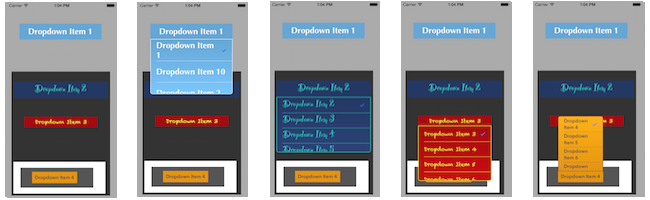
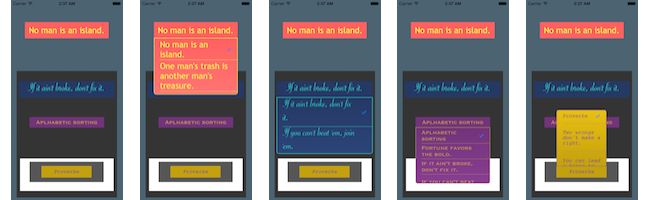
iOS version check for assigning direction incase of landscape.
Since UIScreen bounds is orientation dependent from iOS8.

Updated screenshots.

diff --git a/DropdownSample/VSDropdown.m b/DropdownSample/VSDropdown.m
@@ -104,12 +104,13 @@ static const NSTimeInterval kDefaultDuration = 0.25;
 
 -(CGFloat)cornerRadius
 {
+
     if (self.delegate && [self.delegate respondsToSelector:@selector(cornerRadiusForDropdown:)])
     {
         return [self.delegate cornerRadiusForDropdown:self];
     }
 
-    return 5.0;
+    return 0.0;
     
 }
 
@@ -120,7 +121,7 @@ static const NSTimeInterval kDefaultDuration = 0.25;
         return [self.delegate outlineWidthForDropdown:self];
     }
     
-    return 0;
+    return 0.0;
 
 }
 
@@ -622,7 +623,20 @@ static const NSTimeInterval kDefaultDuration = 0.25;
         CGRect referenceFrame = [self.superview convertRect:viewFrame fromView:[self.dropDownView superview]];
         
         CGFloat totalHeight = referenceFrame.origin.y+referenceFrame.size.height+self.bounds.size.height;
-        if (totalHeight < ([UIScreen mainScreen].bounds.size.height))
+        
+        UIInterfaceOrientation appOrientation = [UIApplication sharedApplication].statusBarOrientation;
+        
+        CGFloat screenHeight = [UIScreen mainScreen].bounds.size.height;
+        
+        if (NSFoundationVersionNumber > NSFoundationVersionNumber_iOS_7_1 == NO)
+        {
+            if (appOrientation == UIInterfaceOrientationLandscapeLeft || appOrientation == UIInterfaceOrientationLandscapeRight)
+            {
+                screenHeight = [UIScreen mainScreen].bounds.size.width;
+            }
+        }
+        
+        if (totalHeight < screenHeight)
         {
             frame = CGRectMake(viewFrame.origin.x, viewFrame.origin.y+viewFrame.size.height-1.0, viewFrame.size.width, height);
             [self setDirection:VSDropdownDirection_Automatic];
@@ -836,27 +850,24 @@ static const NSTimeInterval kDefaultDuration = 0.25;
 
 - (void)tableView:(UITableView *)tableView didDeselectRowAtIndexPath:(NSIndexPath *)indexPath
 {
-    VSDropdownItem *ddi = [self.sortedArr objectAtIndex:indexPath.row];
+    if (self.allowMultipleSelection)
+    {
+        VSDropdownItem *ddi = [self.sortedArr objectAtIndex:indexPath.row];
         
-    NSMutableArray *allSelectedItems = [NSMutableArray arrayWithArray:self.selectedItems];
-    
-    [allSelectedItems removeObject:ddi.itemValue];
-    
-    [self setSelectedItems:[NSArray arrayWithArray:allSelectedItems]];
-    
-    [tableView reloadData];
-    
-    if (self.delegate && [self.delegate respondsToSelector:@selector(dropdown:didChangeSelectionForValue:atIndex:selected:)])
-    {
-        [self.delegate dropdown:self didChangeSelectionForValue:ddi.itemValue atIndex:[self.dataArr indexOfObject:ddi] selected:NO];
-    }
-    
-    if (self.allowMultipleSelection == NO)
-    {
-        [self remove];
+        NSMutableArray *allSelectedItems = [NSMutableArray arrayWithArray:self.selectedItems];
+        
+        [allSelectedItems removeObject:ddi.itemValue];
+        
+        [self setSelectedItems:[NSArray arrayWithArray:allSelectedItems]];
+        
+        [tableView reloadData];
+        
+        if (self.delegate && [self.delegate respondsToSelector:@selector(dropdown:didChangeSelectionForValue:atIndex:selected:)])
+        {
+            [self.delegate dropdown:self didChangeSelectionForValue:ddi.itemValue atIndex:[self.dataArr indexOfObject:ddi] selected:NO];
+        }
         
     }
-
 }
 
 - (void)tableView:(UITableView *)tableView willDisplayCell:(UITableViewCell *)cell forRowAtIndexPath:(NSIndexPath *)indexPath

diff --git a/VSDropdown.m b/VSDropdown.m
@@ -104,12 +104,13 @@ static const NSTimeInterval kDefaultDuration = 0.25;
 
 -(CGFloat)cornerRadius
 {
+
     if (self.delegate && [self.delegate respondsToSelector:@selector(cornerRadiusForDropdown:)])
     {
         return [self.delegate cornerRadiusForDropdown:self];
     }
 
-    return 5.0;
+    return 0.0;
     
 }
 
@@ -120,7 +121,7 @@ static const NSTimeInterval kDefaultDuration = 0.25;
         return [self.delegate outlineWidthForDropdown:self];
     }
     
-    return 0;
+    return 0.0;
 
 }
 
@@ -622,7 +623,20 @@ static const NSTimeInterval kDefaultDuration = 0.25;
         CGRect referenceFrame = [self.superview convertRect:viewFrame fromView:[self.dropDownView superview]];
         
         CGFloat totalHeight = referenceFrame.origin.y+referenceFrame.size.height+self.bounds.size.height;
-        if (totalHeight < ([UIScreen mainScreen].bounds.size.height))
+        
+        UIInterfaceOrientation appOrientation = [UIApplication sharedApplication].statusBarOrientation;
+        
+        CGFloat screenHeight = [UIScreen mainScreen].bounds.size.height;
+        
+        if (NSFoundationVersionNumber > NSFoundationVersionNumber_iOS_7_1 == NO)
+        {
+            if (appOrientation == UIInterfaceOrientationLandscapeLeft || appOrientation == UIInterfaceOrientationLandscapeRight)
+            {
+                screenHeight = [UIScreen mainScreen].bounds.size.width;
+            }
+        }
+        
+        if (totalHeight < screenHeight)
         {
             frame = CGRectMake(viewFrame.origin.x, viewFrame.origin.y+viewFrame.size.height-1.0, viewFrame.size.width, height);
             [self setDirection:VSDropdownDirection_Automatic];
@@ -836,27 +850,24 @@ static const NSTimeInterval kDefaultDuration = 0.25;
 
 - (void)tableView:(UITableView *)tableView didDeselectRowAtIndexPath:(NSIndexPath *)indexPath
 {
-    VSDropdownItem *ddi = [self.sortedArr objectAtIndex:indexPath.row];
+    if (self.allowMultipleSelection)
+    {
+        VSDropdownItem *ddi = [self.sortedArr objectAtIndex:indexPath.row];
         
-    NSMutableArray *allSelectedItems = [NSMutableArray arrayWithArray:self.selectedItems];
-    
-    [allSelectedItems removeObject:ddi.itemValue];
-    
-    [self setSelectedItems:[NSArray arrayWithArray:allSelectedItems]];
-    
-    [tableView reloadData];
-    
-    if (self.delegate && [self.delegate respondsToSelector:@selector(dropdown:didChangeSelectionForValue:atIndex:selected:)])
-    {
-        [self.delegate dropdown:self didChangeSelectionForValue:ddi.itemValue atIndex:[self.dataArr indexOfObject:ddi] selected:NO];
-    }
-    
-    if (self.allowMultipleSelection == NO)
-    {
-        [self remove];
+        NSMutableArray *allSelectedItems = [NSMutableArray arrayWithArray:self.selectedItems];
+        
+        [allSelectedItems removeObject:ddi.itemValue];
+        
+        [self setSelectedItems:[NSArray arrayWithArray:allSelectedItems]];
+        
+        [tableView reloadData];
+        
+        if (self.delegate && [self.delegate respondsToSelector:@selector(dropdown:didChangeSelectionForValue:atIndex:selected:)])
+        {
+            [self.delegate dropdown:self didChangeSelectionForValue:ddi.itemValue atIndex:[self.dataArr indexOfObject:ddi] selected:NO];
+        }
         
     }
-
 }
 
 - (void)tableView:(UITableView *)tableView willDisplayCell:(UITableViewCell *)cell forRowAtIndexPath:(NSIndexPath *)indexPath

diff --git a/DropdownSample/VSViewController.m b/DropdownSample/VSViewController.m
@@ -36,7 +36,7 @@
 
 - (IBAction)testAction:(id)sender
 {
-    [self showDropDownForButton:sender adContents:@[@"Hello World",@"Dropdown test",@"Aplhabetic sorting",@"Dropdown Item 1",@"Dropdown Item 2",@"Dropdown Item 3",@"Dropdown Item 4",@"Dropdown Item 5",@"Dropdown Item 6",@"Dropdown Item 7",@"Dropdown Item 8",@"Dropdown Item 9",@"Dropdown Item 10"]];
+    [self showDropDownForButton:sender adContents:@[@"Two wrongs don't make a right.",@"No man is an island.",@"Aplhabetic sorting",@"Fortune favors the bold.",@"If it ain't broke, don't fix it.",@"If you can't beat 'em, join 'em.",@"One man's trash is another man's treasure.",@"You can lead a horse to water, but you can't make him drink.",@"Proverbs"]];
     
 }
 
@@ -50,7 +50,7 @@
     
     [_dropdown setSeparatorColor:sender.titleLabel.textColor];
     
-    [_dropdown reloadDropdownWithContents:contents andSelectedItems:[sender.titleLabel.text componentsSeparatedByString:@","]];
+    [_dropdown reloadDropdownWithContents:contents andSelectedItems:[sender.titleLabel.text componentsSeparatedByString:@";"]];
     
     
 }
@@ -61,7 +61,7 @@
     if ([dropDown.dropDownView isKindOfClass:[UIButton class]])
     {
         UIButton *btn = (UIButton *)dropDown.dropDownView;
-        NSString *allSelectedItems = [dropDown.selectedItems componentsJoinedByString:@","];
+        NSString *allSelectedItems = [dropDown.selectedItems componentsJoinedByString:@";"];
         [btn setTitle:allSelectedItems forState:UIControlStateNormal];
         
     }
@@ -85,6 +85,10 @@
     return 2.0;
 }
 
+- (CGFloat)cornerRadiusForDropdown:(VSDropdown *)dropdown
+{
+    return 5.0;
+}
 
 
 @end
